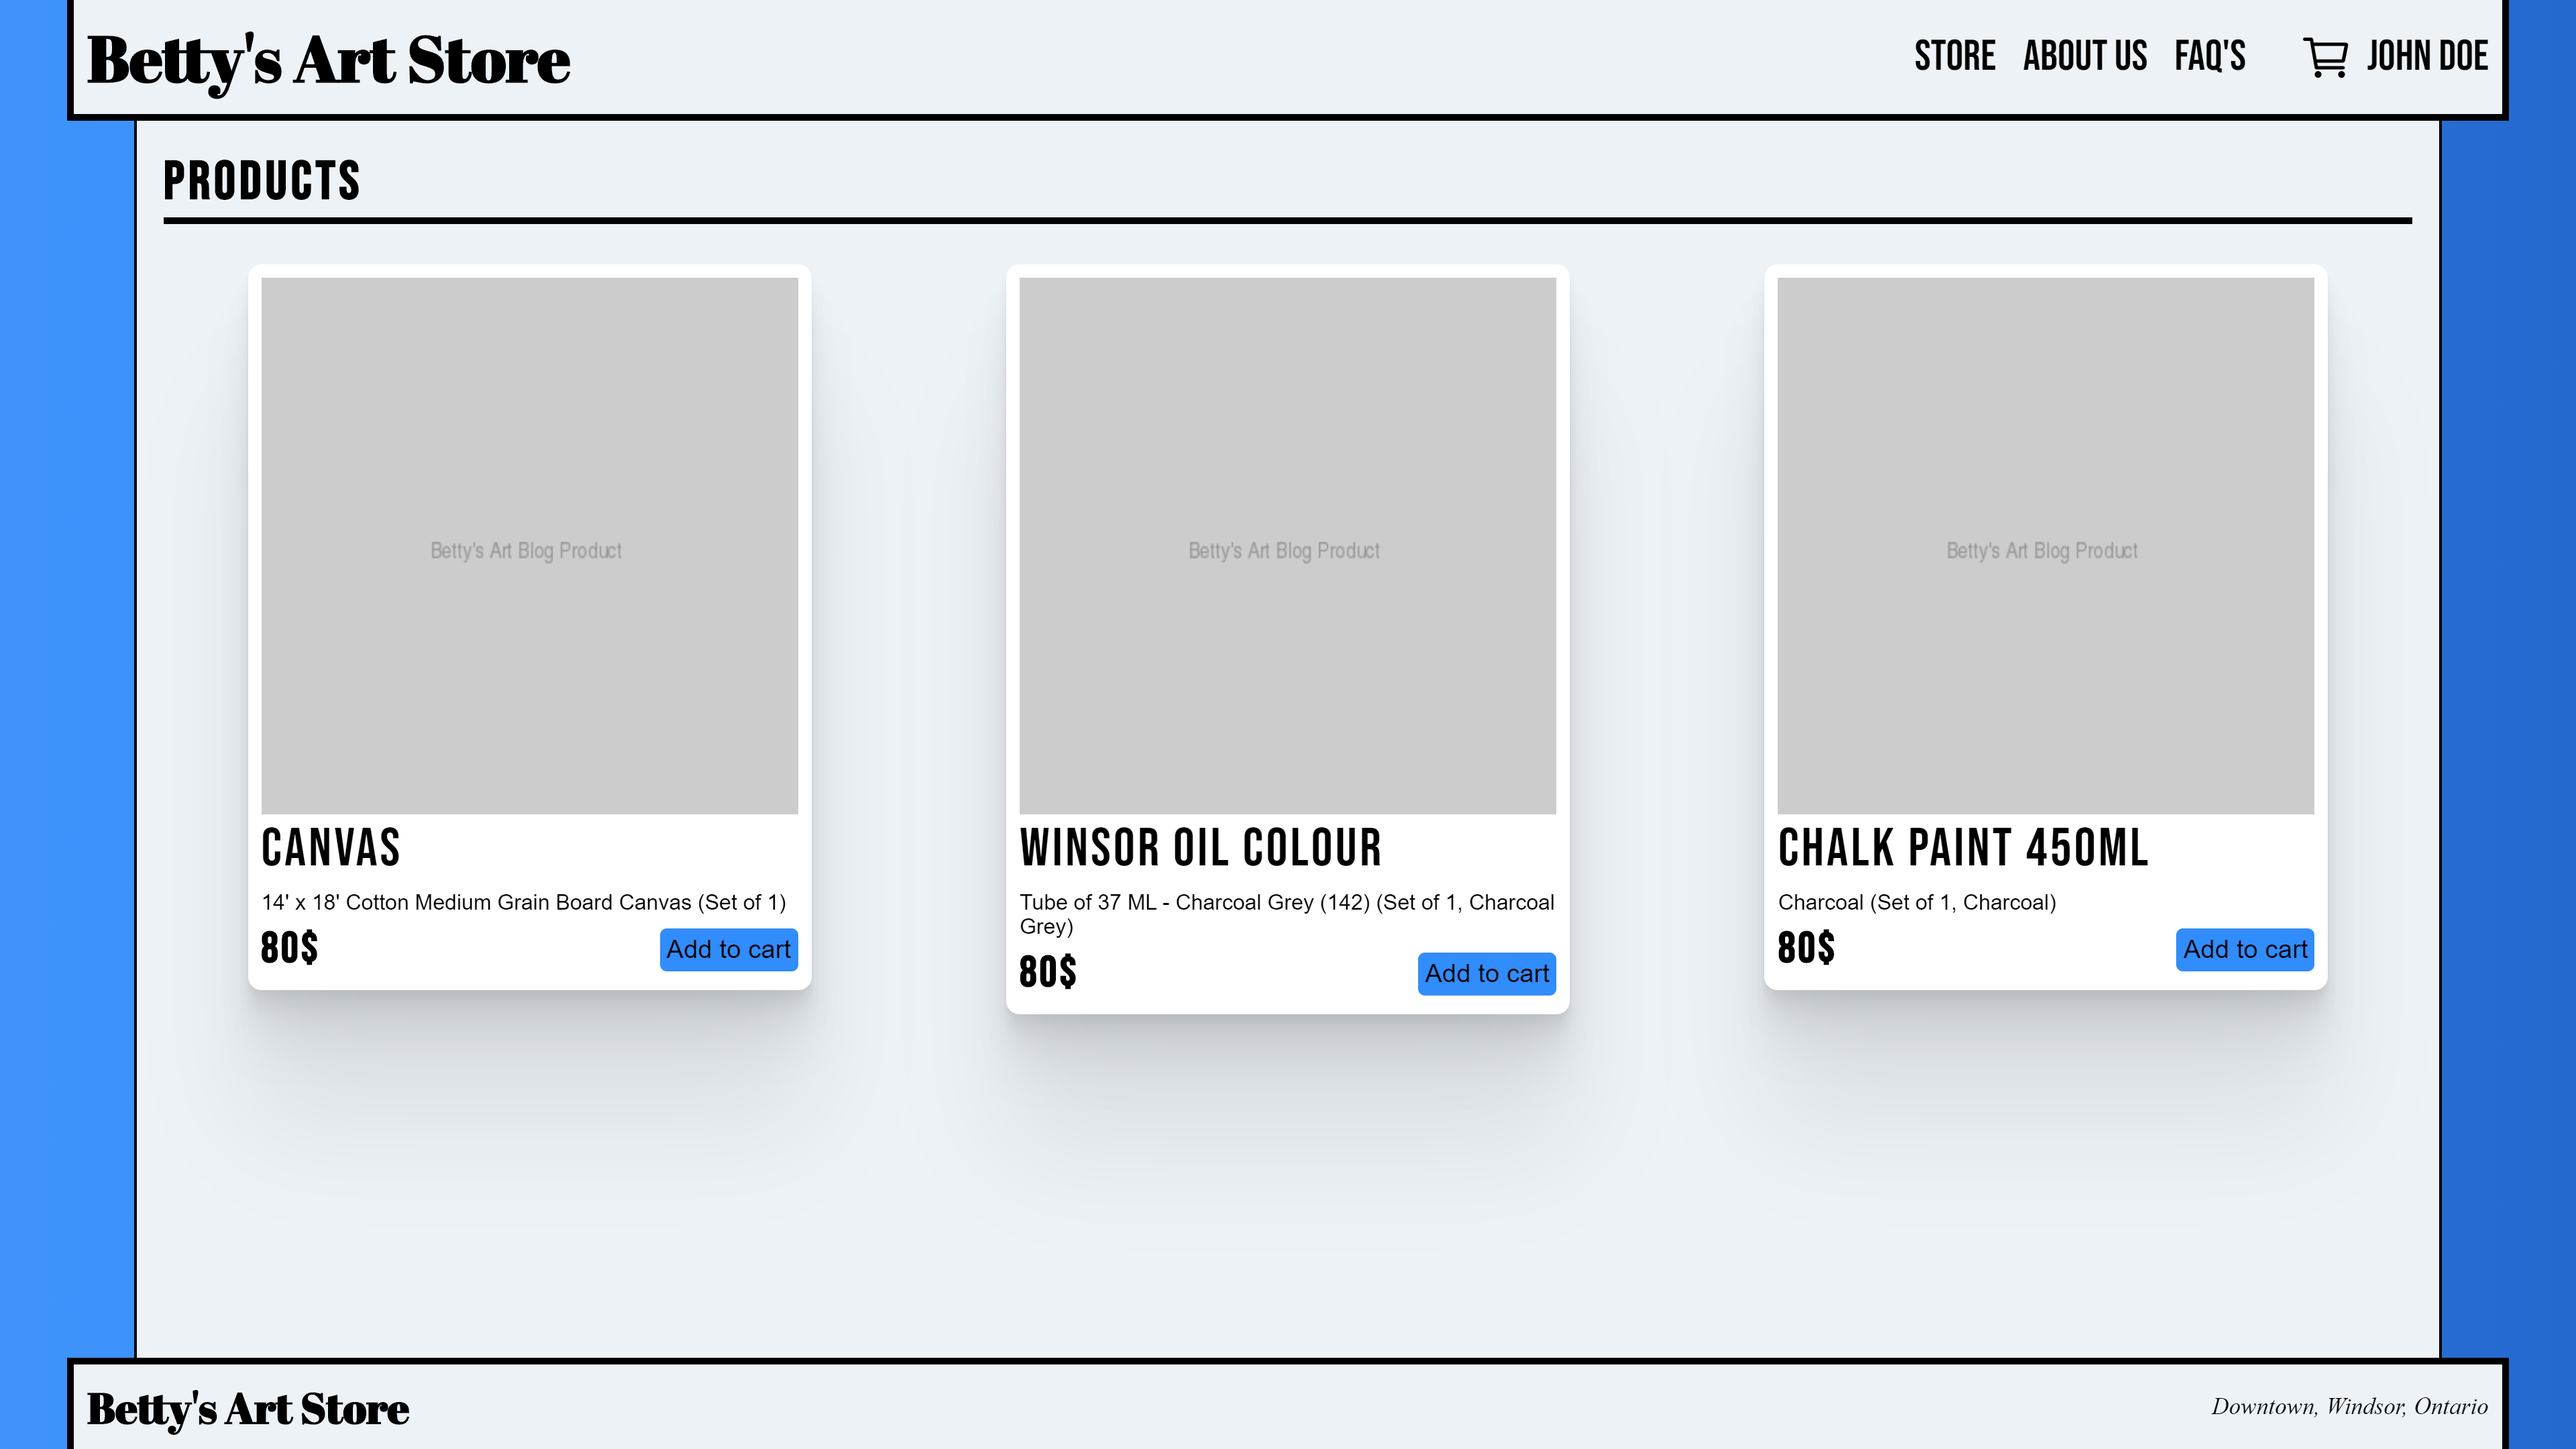
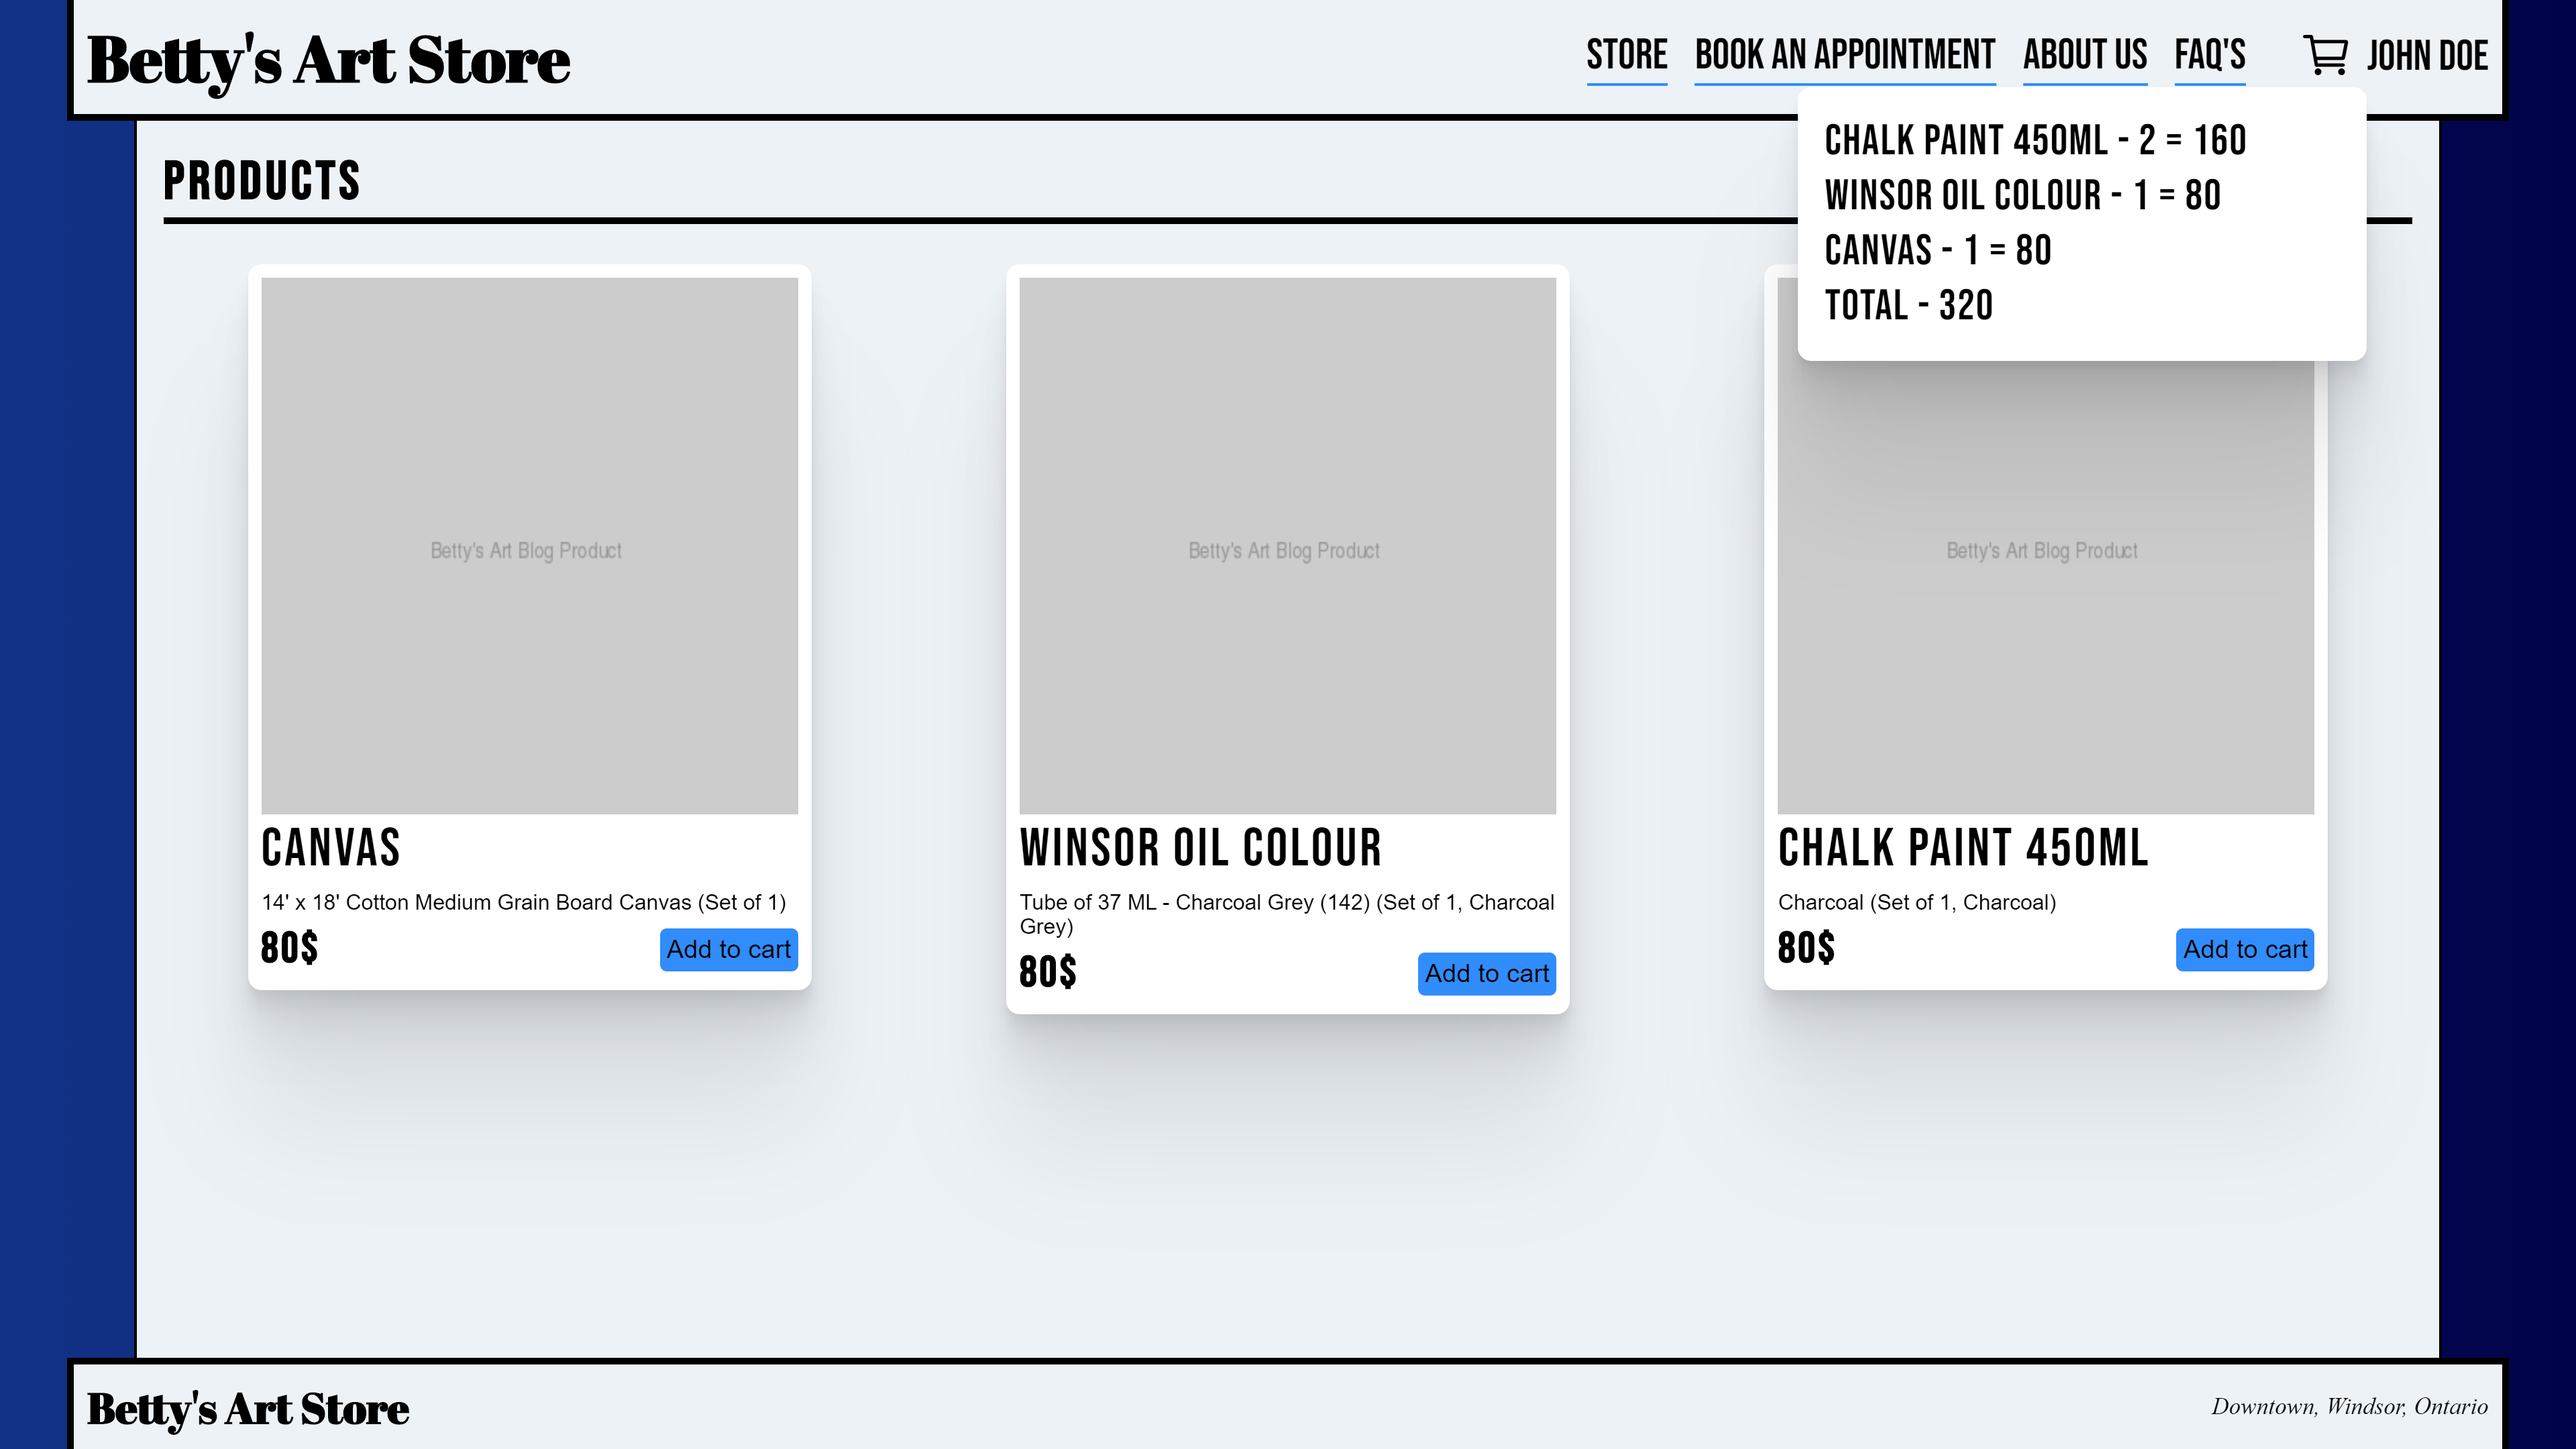
added cart

Changed region(s): [[0.625, 0.0, 1.0, 1.0], [0.0, 0.0, 0.0625, 1.0]]

diff --git a/index.html b/index.html
@@ -17,71 +17,89 @@
             <nav class="menu">
                 <ul class="menu--list">
                     <li class="menu--item">Store</li>
+                    <li class="menu--item">Book An Appointment</li>
                     <li class="menu--item">About Us</li>
                     <li class="menu--item">FAQ's</li>
                 </ul>
             </nav>
             <div class="user">
-                <svg
-                    class="cart"
-                    xmlns="http://www.w3.org/2000/svg"
-                    width="512"
-                    height="512"
-                    viewBox="0 0 512 512"
-                >
-                    <title>Cart</title>
-                    <circle
-                        cx="176"
-                        cy="416"
-                        r="16"
-                        style="
-                            fill: none;
-                            stroke: #000;
-                            stroke-linecap: round;
-                            stroke-linejoin: round;
-                            stroke-width: 32px;
-                        "
-                    />
-                    <circle
-                        cx="400"
-                        cy="416"
-                        r="16"
-                        style="
-                            fill: none;
-                            stroke: #000;
-                            stroke-linecap: round;
-                            stroke-linejoin: round;
-                            stroke-width: 32px;
-                        "
-                    />
-                    <polyline
-                        points="48 80 112 80 160 352 416 352"
-                        style="
-                            fill: none;
-                            stroke: #000;
-                            stroke-linecap: round;
-                            stroke-linejoin: round;
-                            stroke-width: 32px;
-                        "
-                    />
-                    <path
-                        d="M160,288H409.44a8,8,0,0,0,7.85-6.43l28.8-144a8,8,0,0,0-7.85-9.57H128"
-                        style="
-                            fill: none;
-                            stroke: #000;
-                            stroke-linecap: round;
-                            stroke-linejoin: round;
-                            stroke-width: 32px;
-                        "
-                    />
-                </svg>
+                <div class="cart--handler">
+                    <svg
+                        @click="showCart = !showCart"
+                        class="cart"
+                        xmlns="http://www.w3.org/2000/svg"
+                        width="512"
+                        height="512"
+                        viewBox="0 0 512 512"
+                    >
+                        <title>Cart</title>
+                        <circle
+                            cx="176"
+                            cy="416"
+                            r="16"
+                            style="
+                                fill: none;
+                                stroke: #000;
+                                stroke-linecap: round;
+                                stroke-linejoin: round;
+                                stroke-width: 32px;
+                            "
+                        />
+                        <circle
+                            cx="400"
+                            cy="416"
+                            r="16"
+                            style="
+                                fill: none;
+                                stroke: #000;
+                                stroke-linecap: round;
+                                stroke-linejoin: round;
+                                stroke-width: 32px;
+                            "
+                        />
+                        <polyline
+                            points="48 80 112 80 160 352 416 352"
+                            style="
+                                fill: none;
+                                stroke: #000;
+                                stroke-linecap: round;
+                                stroke-linejoin: round;
+                                stroke-width: 32px;
+                            "
+                        />
+                        <path
+                            d="M160,288H409.44a8,8,0,0,0,7.85-6.43l28.8-144a8,8,0,0,0-7.85-9.57H128"
+                            style="
+                                fill: none;
+                                stroke: #000;
+                                stroke-linecap: round;
+                                stroke-linejoin: round;
+                                stroke-width: 32px;
+                            "
+                        />
+                    </svg>
+                    <transition name="slide-fade">
+                        <ol class="cart--list" v-if="showCart">
+                            <li v-if="cart.length === 0">
+                                Nothing in cart yet.
+                            </li>
+
+                            <li v-else v-for="item in cart">
+                                {{item.name}} - {{item.quantity}} =
+                                {{item.quantity*item.cost}}
+                            </li>
+
+                            <li>Total - {{total}}</li>
+                        </ol>
+                    </transition>
+                </div>
                 <h3 class="user--name">John Doe</h3>
             </div>
         </header>
         <section>
             <h2 class="product--heading">Products</h2>
             <ul class="product--list">
-                <li v-for="product in products" class="product--card">
+                <li v-for="(product, index) in products" class="product--card">
                     <img
                         class="product--image"
                         class="product--image"
@@ -92,7 +110,12 @@
                     <p class="product--description">{{product.description}}</p>
                     <div class="product--buy">
                         <h3 class="product--cost">{{product.cost}}$</h3>
-                        <button class="product--buy--btn">Add to cart</button>
+                        <button
+                            @click="addToCart(index)"
+                            class="product--buy--btn"
+                        >
+                            Add to cart
+                        </button>
                     </div>
                 </li>
             </ul>

diff --git a/main.css b/main.css
@@ -59,19 +59,52 @@ header {
 .menu--item {
     font-size: 2em;
     margin-left: 20px;
+    border-bottom: 2px solid #318cfc;
+    cursor: pointer;
+    transition: 0.3s background-color;
+}
+
+.menu--item:hover {
+    background-color: #318cfc;
 }
 
 .user {
+    position: relative;
     grid-area: user;
     display: flex;
     justify-content: center;
     align-items: center;
 }
 
+.cart--handler {
+    position: relative;
+}
+
 .cart {
     height: 40px;
     width: 40px;
     margin-right: 10px;
+    cursor: pointer;
+}
+
+.cart--list {
+    position: absolute;
+    top: 100%;
+    padding: 20px;
+    background: white;
+    border-radius: 10px;
+    list-style-type: none;
+    width: 20vw;
+    right: 0vw;
+    transition: 0.5s all;
+    font-family: "Bebas Neue", cursive;
+    font-size: 2em;
+    letter-spacing: 1px;
+    z-index: 10;
+    box-shadow: 0 2.8px 2.2px rgba(0, 0, 0, 0.02),
+        0 6.7px 5.3px rgba(0, 0, 0, 0.028), 0 12.5px 10px rgba(0, 0, 0, 0.035),
+        0 22.3px 17.9px rgba(0, 0, 0, 0.042),
+        0 41.8px 33.4px rgba(0, 0, 0, 0.05), 0 100px 80px rgba(0, 0, 0, 0.07);
 }
 
 .user--name {
@@ -209,4 +242,20 @@ footer {
     100% {
         background-position: 0% 50%;
     }
+}
+
+/* Enter and leave animations can use different */
+/* durations and timing functions.              */
+.slide-fade-enter-active {
+    transition: all 0.3s ease-out;
+}
+
+.slide-fade-leave-active {
+    transition: all 0.3s cubic-bezier(1, 0.5, 0.8, 1);
+}
+
+.slide-fade-enter-from,
+.slide-fade-leave-to {
+    transform: translateX(20px);
+    opacity: 0;
 }

diff --git a/main.js b/main.js
@@ -29,7 +29,37 @@ const BettysArtStore = {
                         "https://via.placeholder.com/400?text=Betty's+Art+Blog+Product",
                 },
             ],
+            cart: [],
+            showCart: false,
+            itemInCart: false,
         };
+    },
+    computed: {
+        total: function () {
+            let total = 0;
+            this.cart.map((item) => {
+                total += item.cost * item.quantity;
+            });
+            return total;
+        },
+    },
+    methods: {
+        addToCart: function (index) {
+            this.itemInCart = false;
+            let product = this.products[index];
+            this.cart.map((item) => {
+                if (item.name === product.name) {
+                    console.log("here");
+                    item.quantity += 1;
+                    this.itemInCart = true;
+                }
+            });
+            if (!this.itemInCart) {
+                this.cart = [...this.cart, {...product, quantity: 1}];
+                this.itemInCart = false;
+            }
+            console.log(this.cart);
+        },
     },
 };
 
